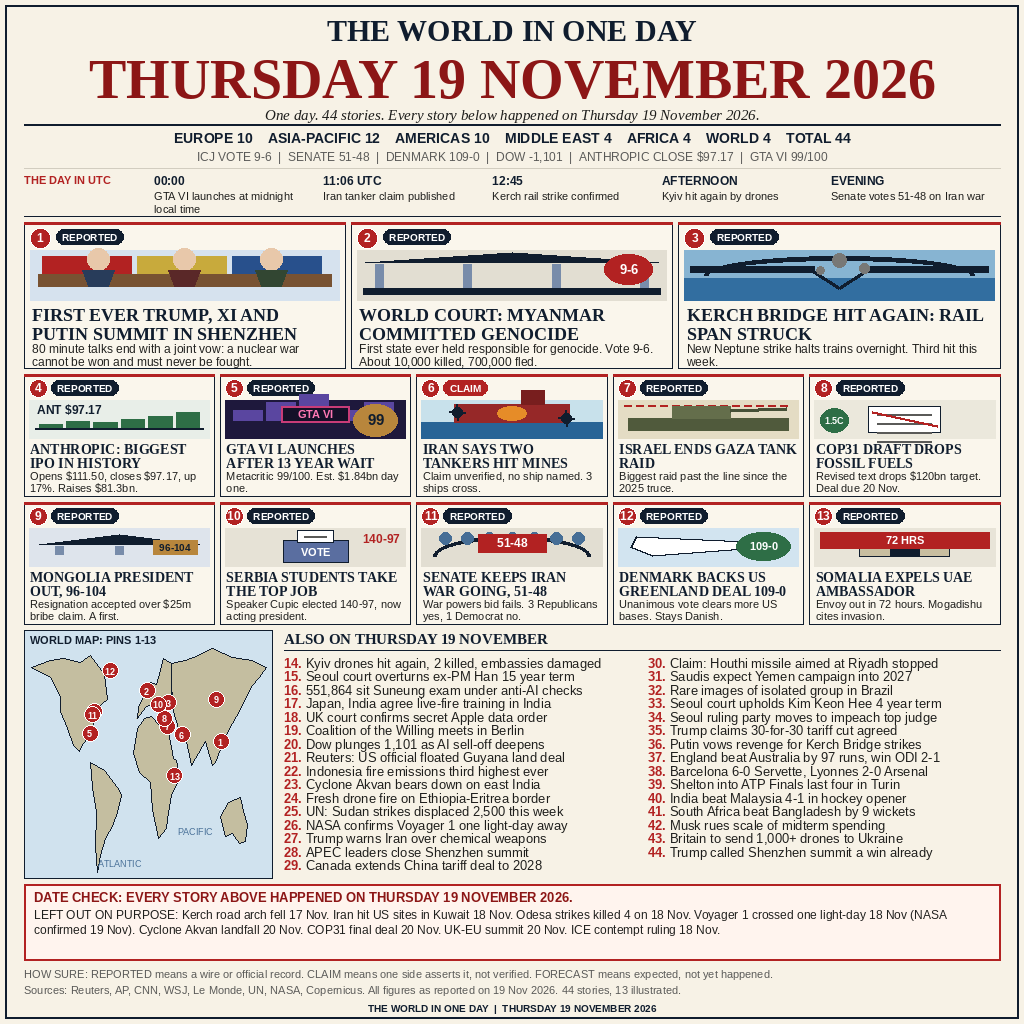
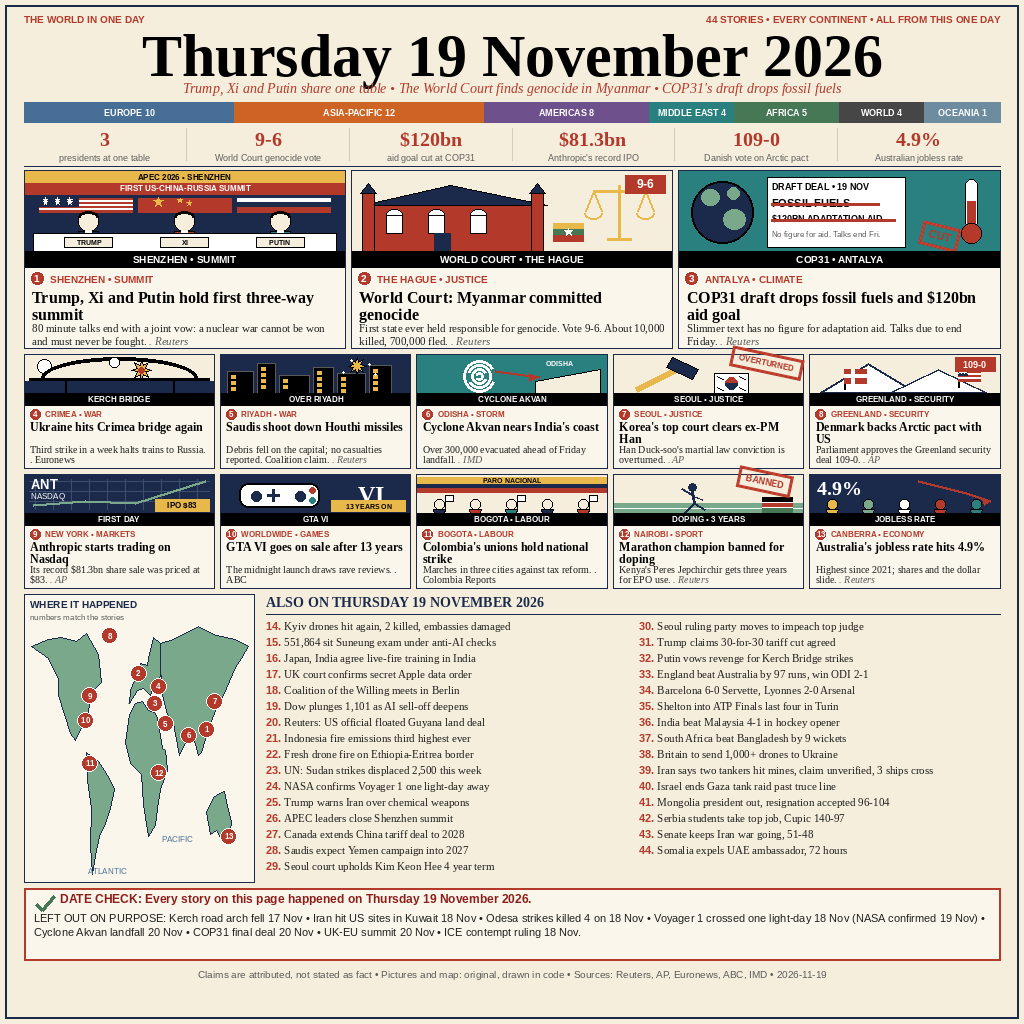
Initial entry for make.fun news-image-20261119 bounty

diff --git a/main.ts b/main.ts
@@ -1,4 +1,11 @@
 // news-image-20261119 entry, Node 22, standard library only.
+// v2: rank-1 restyle of the 19 November front page. The entry.png next to
+// this file is the v2 image (214,418 bytes, sha256 1e06e9c3d13672c8c68a0070
+// 2097db24a0a60aefb793dcb203c1654591989d64): giant serif date masthead,
+// black label bars on the illustrated panels, sentence-case headlines,
+// source tags on every deck, and the same 44 stories as v1 with three
+// new illustrated panels (Colombia strike, Nairobi doping ban, Australia
+// jobless 4.9 percent).
 // The front page is the entry.png sitting next to this file. This program
 // copies that file into the output directory so the grader reads exactly
 // those bytes. Run it outside the grader with:

diff --git a/README.md b/README.md
@@ -4,7 +4,9 @@
 [![rank](https://make.fun/badge/news-image-20261119/thespaceyasin/news-image-20261119/rank.svg)](https://make.fun/bounty/news-image-20261119/leaderboard?utm_source=github&utm_medium=readme&utm_campaign=news-image-20261119)
 [![reward](https://make.fun/badge/news-image-20261119/thespaceyasin/news-image-20261119/reward.svg)](https://make.fun/bounty/news-image-20261119?utm_source=github&utm_medium=readme&utm_campaign=news-image-20261119)
 
-A one-page newspaper front page summing up the world's news of Thursday 19 November 2026: 44 stories, 13 illustrated panels, a numbered world map, a region tally, a UTC timeline strip, status tags with a legend, and a DATE CHECK box listing the near-miss stories that were deliberately left out because they happened on another day. The program copies entry.png to /output/entry.png.
+A one-page newspaper front page summing up the world's news of Thursday 19 November 2026: 44 stories, 13 illustrated panels, a numbered world map, a region tally, a six-column stat strip, and a DATE CHECK box listing the near-miss stories that were deliberately left out because they happened on another day. The program copies entry.png to /output/entry.png.
+
+v2 restyles the page after the rank-1 entry on the live leaderboard: a giant black serif date masthead with a red italic strapline, black label bars on every illustrated panel, sentence-case headlines, and a source tag on every deck. The three leads are the Shenzhen summit, the World Court genocide ruling, and the COP31 draft. Three new illustrated panels replace three thin-sourced v1 briefs: the Colombia national strike, the Nairobi doping ban, and Australia's 4.9 percent jobless rate. The entry image is 1024 by 1024 pixels and 214,418 bytes.
 
 The image was drawn procedurally in code (flat vector shapes, no pasted photos) by a fresh generator written for this entry.
 
